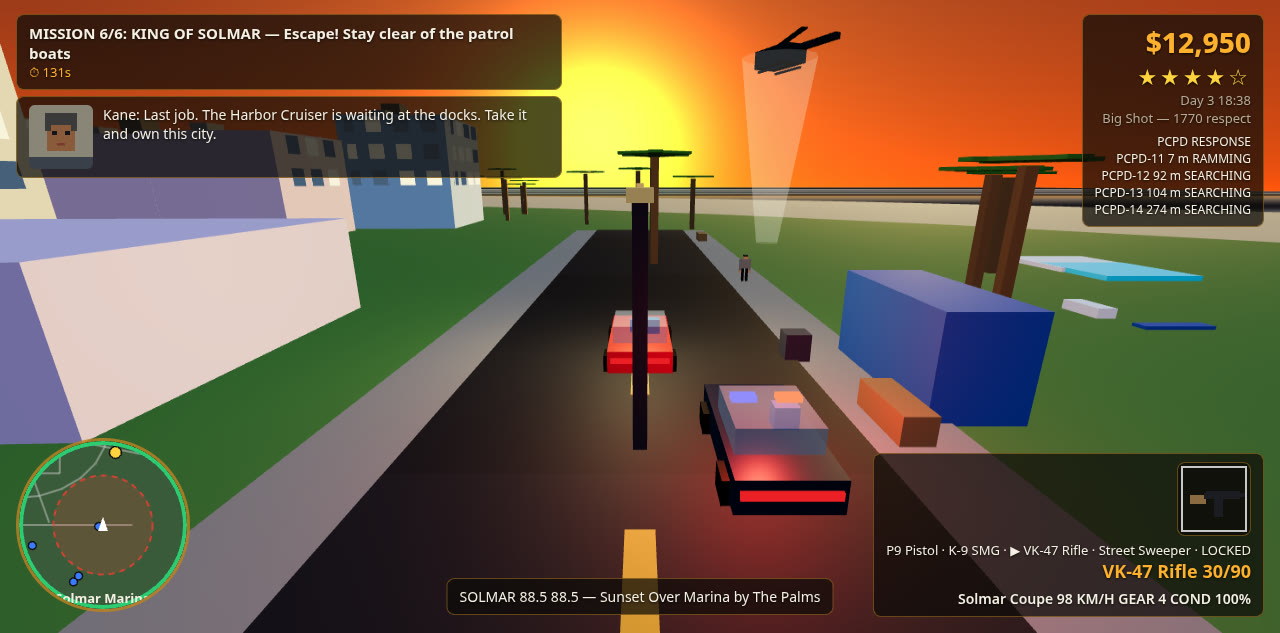
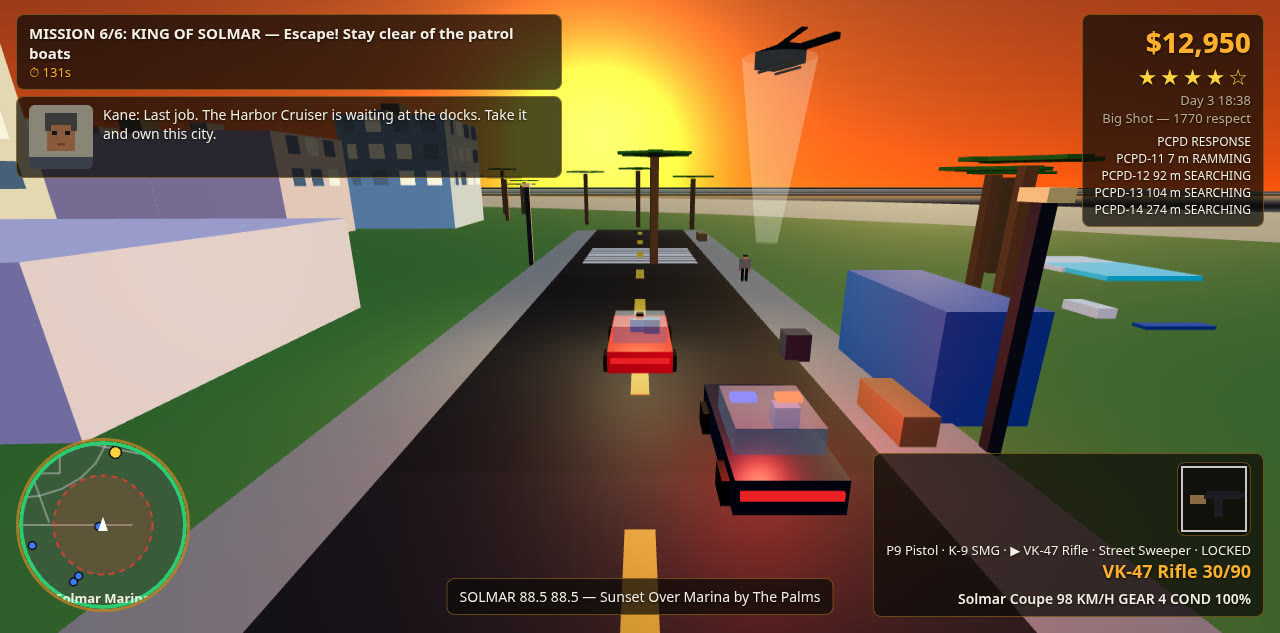
Rebuild #6 visual fixes: lamps to sidewalk, true zebra stripes, race on ring road (shots 19/19)

Changed region(s): [[0.75, 0.2701, 0.8438, 0.7204], [0.4688, 0.4803, 0.5312, 0.7204], [0.4062, 0.3002, 0.5625, 0.4202]]

diff --git a/game/src/shots.js b/game/src/shots.js
@@ -198,10 +198,15 @@ function stageRace(world) {
   state.weather.kind = 'clear';
   const sport = state.vehicles.find((v) => v.id === 'sport');
   if (sport) {
-    sport.x = 448;
+    // Start ON the outer ring's east point, heading south down the ring.
+    // The old start (448, 240) sat 22 m inside the ring, so every drive
+    // to the ring crossed grass — and the old two-leg fix drove north
+    // through a building cluster and wedged the car against a wall
+    // (race shot: luma 0.611, 99 KB, camera buried in a facade).
+    sport.x = 470;
     sport.z = 240;
     sport.heading = 0;
-    state.player.x = 448;
+    state.player.x = 470;
     state.player.z = 240;
     state.player.heading = 0;
     state.player.onFoot = false;
@@ -223,7 +228,14 @@ function stageRace(world) {
   state.missions.stepIndex = 0;
   state.dialogue.queue = [];
   state.dialogue.current = null;
-  driveForward(world, 120, 470, 260);
+  // Three short chords down the outer ring, which is an ELLIPSE
+  // (rx 150, rz 112.5), not a circle: (470, 240) -> (465, 269) ->
+  // (461, 279) -> (450, 296). Verified headless: the car ends at
+  // (454.4, 289.7) at 24.1 m/s, 0.7 m from the road centreline — on
+  // the asphalt, moving, camera behind it on the road.
+  driveForward(world, 60, 465, 269);
+  driveForward(world, 60, 461, 279);
+  driveForward(world, 90, 450, 296);
   // Thin the ambient traffic for the frame AFTER the drive: slicing before
   // it is undone by maintainTraffic refilling the ring to 12 during the
   // drive. 12 traffic cars plus 3 rivals plus the player put 130 draw

diff --git a/game/src/city.js b/game/src/city.js
@@ -206,14 +206,25 @@ export function generateCity(seed) {
     trees.push({ x, z, h: floatBetween(random, 4, 6.5), canopy: floatBetween(random, 1.6, 2.6) });
   }
 
-  // One lamp every 26 m along every road, alternating sides.
+  // One lamp every 26 m along every road, alternating sides — ON the
+  // sidewalk edge, 7.5 m off the centreline, never on the road itself.
+  // The old code stored `side` but never used it, so every lamp stood
+  // dead-centre in its lane and the cover camera drove straight into
+  // one: a black pole splitting the hero car down the middle.
   const lamps = [];
   for (const road of roads) {
     const len = dist2d(road.x1, road.z1, road.x2, road.z2);
     const count = Math.floor(len / CITY.lampSpacing);
+    const ux = (road.x2 - road.x1) / len;
+    const uz = (road.z2 - road.z1) / len;
     for (let i = 1; i < count; i += 1) {
       const t = i / count;
-      lamps.push({ x: road.x1 + (road.x2 - road.x1) * t, z: road.z1 + (road.z2 - road.z1) * t, side: i % 2 === 0 ? 1 : -1 });
+      const side = i % 2 === 0 ? 1 : -1;
+      lamps.push({
+        x: road.x1 + (road.x2 - road.x1) * t - uz * side * 7.5,
+        z: road.z1 + (road.z2 - road.z1) * t + ux * side * 7.5,
+        side,
+      });
     }
   }
 

diff --git a/game/src/render.js b/game/src/render.js
@@ -218,14 +218,17 @@ export function createRenderer(canvas) {
       }
       // Zebra crossings at both ends of each road: matte off-white
       // stripes, never glossy, so they read without glaring at golden
-      // hour. Seven stripes across the 10 m road, 0.9 m wide each.
+      // hour. Each stripe runs ACROSS the road (8 m long, 0.9 m wide),
+      // seven of them spaced 1.3 m apart along the road. The old
+      // dimensions had the long axis along the road, so two crossings
+      // at an intersection read as one giant white X.
       for (const end of [0.06, 0.94]) {
         const cx = road.x1 + (road.x2 - road.x1) * end;
         const cz = road.z1 + (road.z2 - road.z1) * end;
         for (let s = -3; s <= 3; s += 1) {
           const along = Math.sin(angle) * s * 1.3;
           const across = Math.cos(angle) * s * 1.3;
-          zebraBoxes.push({ w: 0.9, h: 0.15, d: 3.6, x: cx + along, y: 0.1, z: cz + across, rot: angle, color: '#d8d4c8' });
+          zebraBoxes.push({ w: 8, h: 0.15, d: 0.9, x: cx + along, y: 0.1, z: cz + across, rot: angle, color: '#d8d4c8' });
         }
       }
     }
